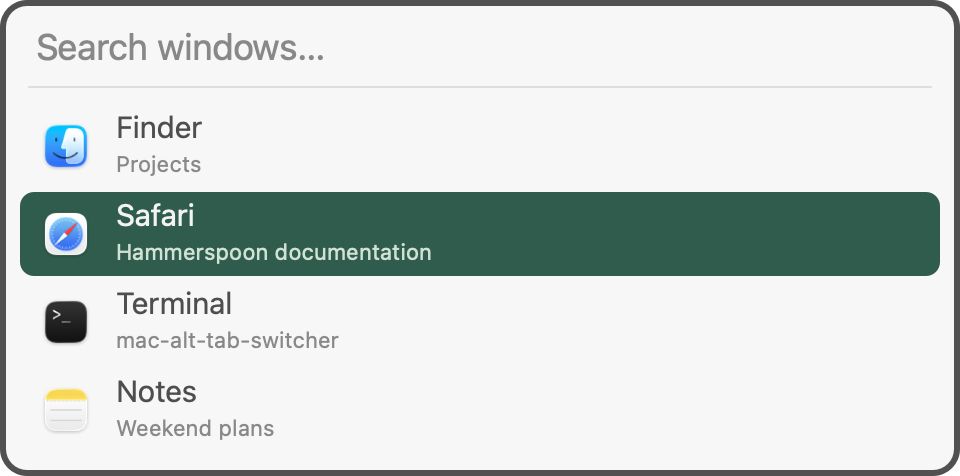
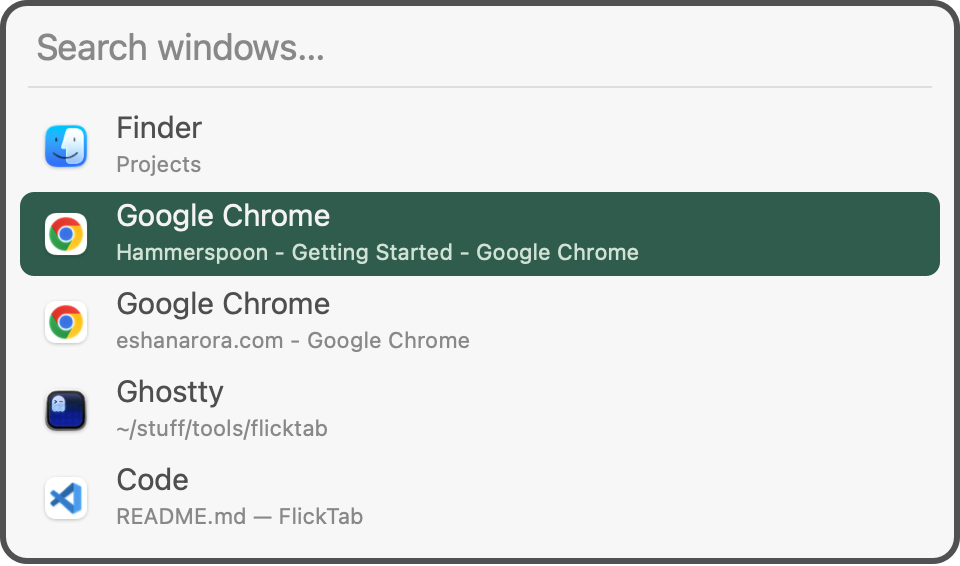
Rename switcher to FlickTab

diff --git a/tests/test_setup.py b/tests/test_setup.py
@@ -40,10 +40,10 @@ class SetupTests(unittest.TestCase):
         self.run_setup()
         self.run_setup()
         self.assertTrue(init.read_text().startswith(initial + '\n'))
-        self.assertEqual(init.read_text().count('hs.loadSpoon("MacAltTab"):start()'), 1)
-        self.assertTrue(any(p.read_text() == initial for p in self.config.glob('mac-alt-tab-backup.*/init.lua')))
-        self.assertEqual((self.config / 'Spoons/MacAltTab.spoon/init.lua').read_bytes(),
-                         (ROOT / 'MacAltTab.spoon/init.lua').read_bytes())
+        self.assertEqual(init.read_text().count('hs.loadSpoon("FlickTab"):start()'), 1)
+        self.assertTrue(any(p.read_text() == initial for p in self.config.glob('flicktab-backup.*/init.lua')))
+        self.assertEqual((self.config / 'Spoons/FlickTab.spoon/init.lua').read_bytes(),
+                         (ROOT / 'FlickTab.spoon/init.lua').read_bytes())
 
     def test_new_config(self):
         self.run_setup()
@@ -69,7 +69,7 @@ class SetupTests(unittest.TestCase):
     def test_symlinked_spoon_not_overwritten(self):
         target = self.root / 'old.lua'
         target.write_text('-- keep\n')
-        spoon = self.config / 'Spoons/MacAltTab.spoon'
+        spoon = self.config / 'Spoons/FlickTab.spoon'
         spoon.mkdir(parents=True)
         (spoon / 'init.lua').symlink_to(target)
         self.run_setup(False)
@@ -94,7 +94,7 @@ class SetupTests(unittest.TestCase):
         self.assertFalse((self.config / 'init.lua').exists())
 
     def test_incomplete_startup_block_rejected(self):
-        (self.config / 'init.lua').write_text('-- Mac Alt-Tab Switcher\n')
+        (self.config / 'init.lua').write_text('-- FlickTab\n')
         self.run_setup(False)
         self.assertFalse((self.config / 'Spoons').exists())
 

diff --git a/README.md b/README.md
@@ -1,33 +1,46 @@
-# Mac Alt-Tab Switcher
+# FlickTab
 
-A searchable window switcher for macOS, built with [Hammerspoon](https://www.hammerspoon.org).
+A searchable window switcher for macOS, built with [Hammerspoon](https://www.hammerspoon.org). Enables Windows-like switching instead of Mac application-level switching.
 
-Hold **Command**, press **Tab**, and type to filter by app or window title. Release Command to switch. Windows appear in recent-use order; search handles abbreviations and typos.
+Hold **Command**, press **Tab** to cycle, and release at the desired window. Windows appear in most-recently-used order.
 
-![Mac Alt-Tab Switcher with example windows](assets/switcher.png)
+Typical usage pattern looks like either:
+
+- Switching back and forth between 2 windows
+- Search for a window you know is open, but don't know where in the order. i.e. type "obs" for obsidian or "gh" for ghostty.
+
+![FlickTab showing two separate Google Chrome windows](assets/switcher.png)
+
+## Comparison
+
+Many similar tools exist. What makes FlickTab the best:
+
+- **Fast:** Never feel lag
+- **Fuzzy search:** Super resillient to typos
+- **Uses Hammerspoon:** No separate app. Company managed Macs just need to allow Hammerspoon
+- **Simple:** in both design and features
+- **Free**
 
 ## Install
 
-Clone or download this repo, then run:
+Clone repo, then run:
 
 ```sh
 ./setup
 ```
 
-Setup works with new or existing Hammerspoon installations: it copies the Spoon and adds its startup line automatically, backing up and preserving your existing config. It installs Hammerspoon through Homebrew if needed. Without Homebrew, [install Hammerspoon](https://www.hammerspoon.org) first.
+Setup installs Hammerspoon with homebrew if not already installed, copies the Spoon, and adds its startup line.
 
-Allow Hammerspoon in **System Settings → Privacy & Security → Accessibility**, then choose **Reload Config** from its menu.
+Allow Hammerspoon in **System Settings → Privacy & Security → Accessibility**, then click **Reload Config** from its menu.
 
 ## Controls
 
-| Key | Action |
-| --- | --- |
-| Command + Tab | Open / next window |
-| Command + Shift + Tab | Previous window |
-| Type while holding Command | Search |
-| Release Command / Enter | Switch |
-| Escape | Cancel |
+| Key                        | Action             |
+| -------------------------- | ------------------ |
+| Command + Tab              | Open / next window |
+| Command + Shift + Tab      | Previous window    |
+| Type while holding Command | Search             |
+| Release Command / Enter    | Switch             |
+| Escape                     | Cancel             |
 
-Disable it from the **⌘⇥** menu to restore normal Command-Tab. To uninstall, remove its startup line and `MacAltTab.spoon`, then reload Hammerspoon.
-
-The switcher runs locally: no network requests, saved searches, or saved window titles. It pauses while macOS Secure Input is active. Use one Command-Tab replacement at a time.
+To uninstall, remove its startup line and `FlickTab.spoon`.
